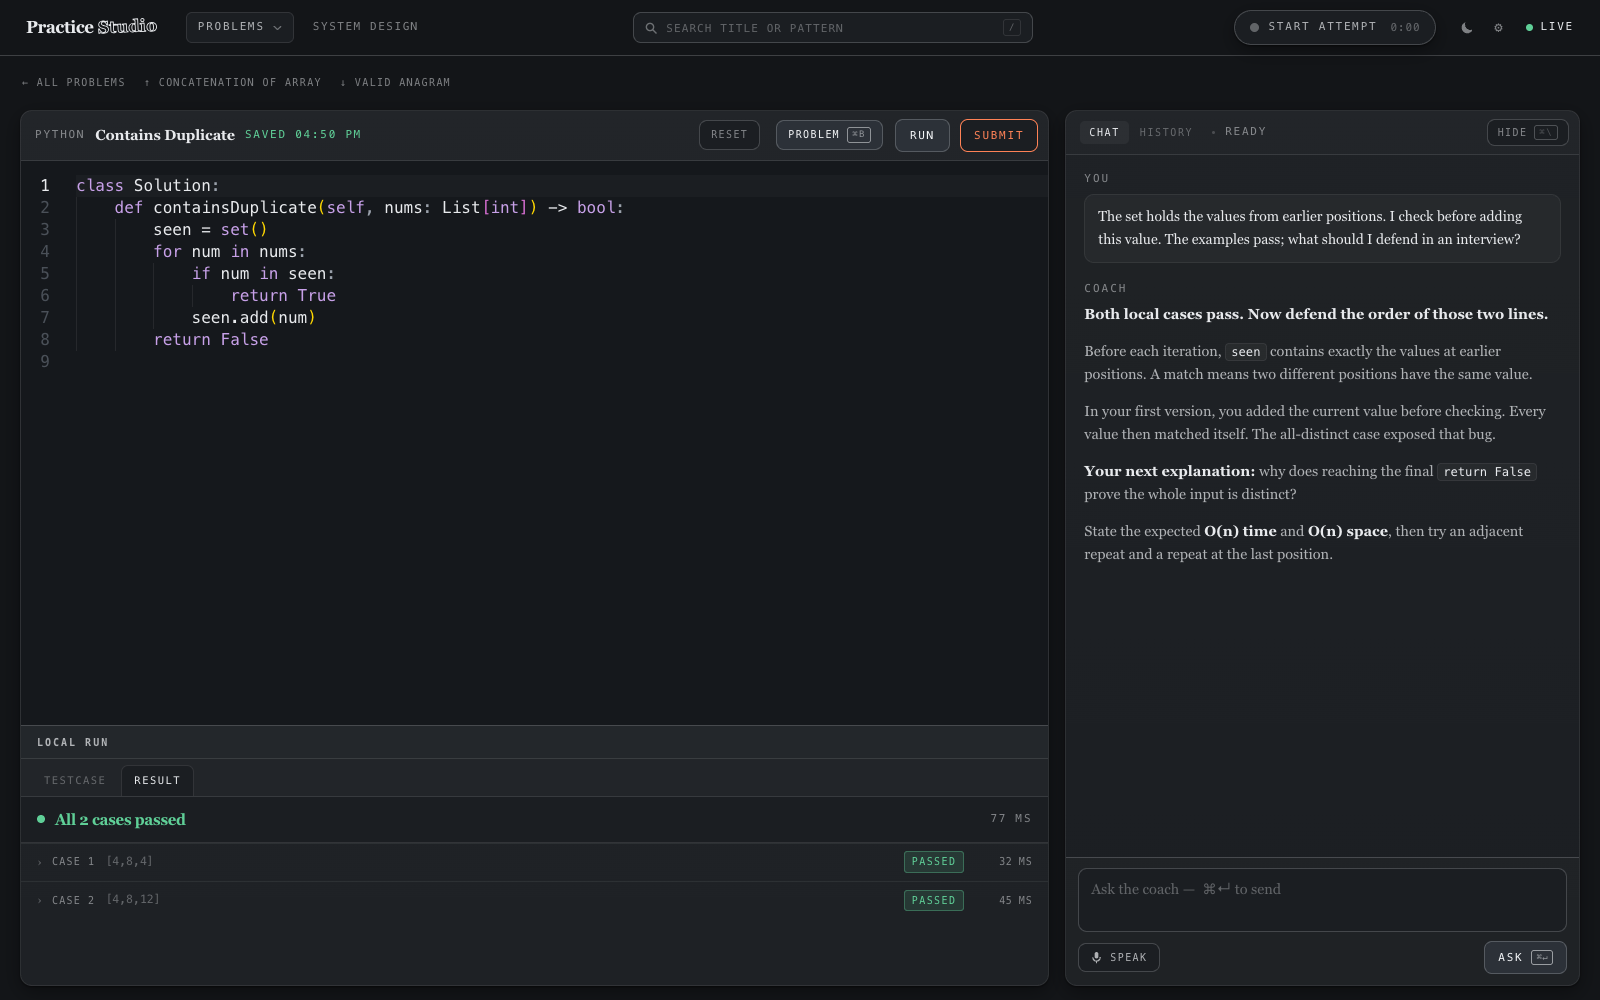
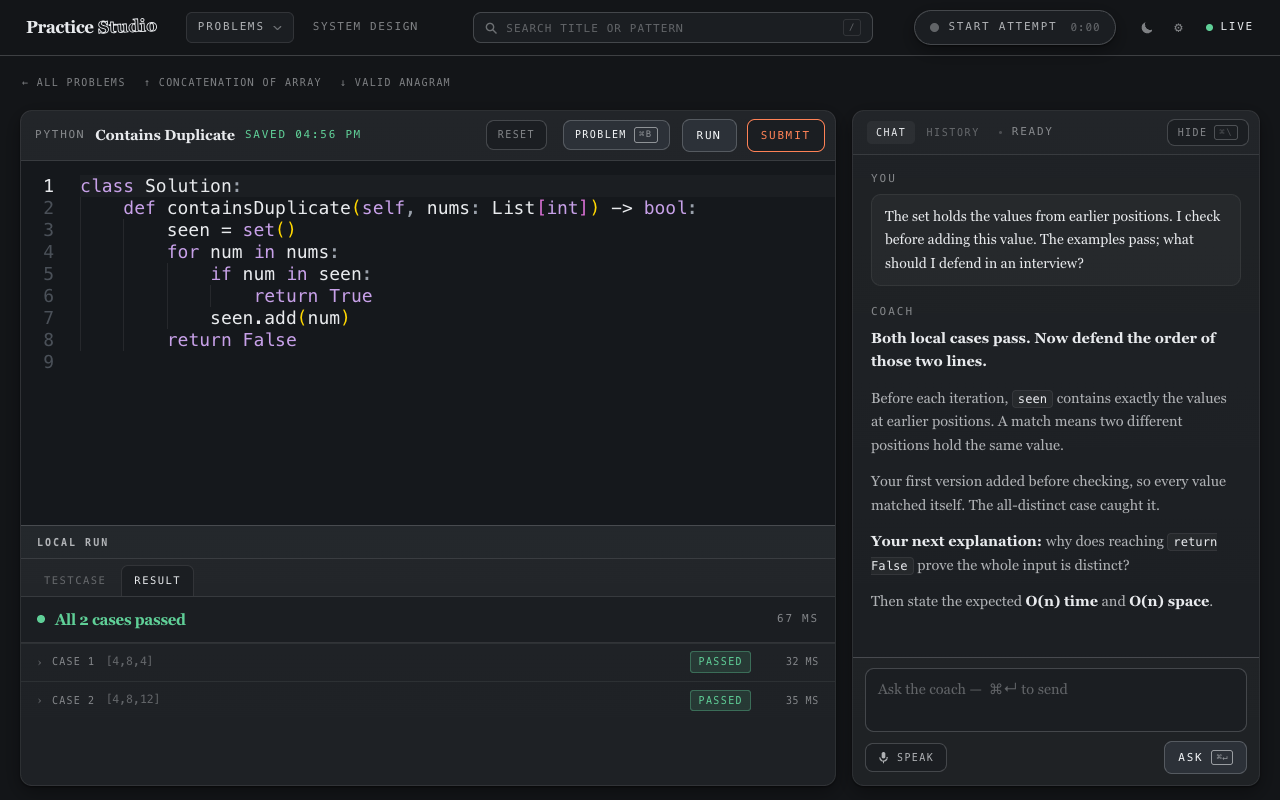
Make demo screenshots readable at GitHub's content width

diff --git a/docs/EXAMPLE-SESSION.md b/docs/EXAMPLE-SESSION.md
@@ -63,16 +63,15 @@ The scripted coach connects the answer to the actual edit and earlier failure:
 > **Both local cases pass. Now defend the order of those two lines.**
 >
 > Before each iteration, `seen` contains exactly the values at earlier positions.
-> A match means two different positions have the same value.
+> A match means two different positions hold the same value.
 >
-> In your first version, you added the current value before checking. Every value then
-> matched itself. The all-distinct case exposed that bug.
+> Your first version added before checking, so every value matched itself. The
+> all-distinct case caught it.
 >
-> **Your next explanation:** why does reaching the final `return False` prove the whole
+> **Your next explanation:** why does reaching `return False` prove the whole
 > input is distinct?
 >
-> State the expected **O(n) time** and **O(n) space**, then try an adjacent repeat and a
-> repeat at the last position.
+> Then state the expected **O(n) time** and **O(n) space**.
 
 ![Actual coding UI, with the corrected solution, real local results, and scripted feedback](images/coach.png)
 
